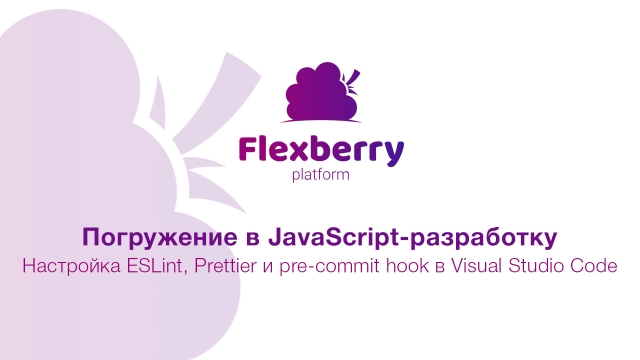
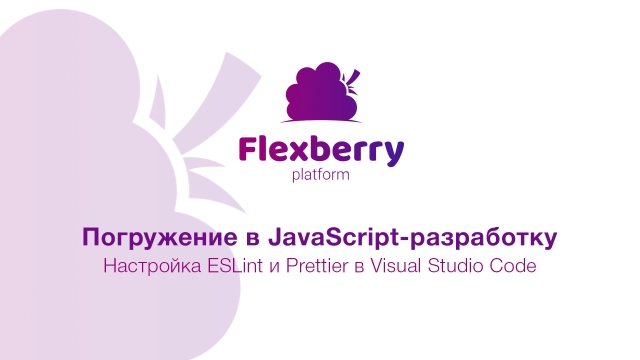
Update developers school pages

Changed region(s): [[0.0312, 0.7028, 0.9688, 0.7639]]

diff --git a/pages/trainings/developers-school/module3/tds_module3-learn.ru.md b/pages/trainings/developers-school/module3/tds_module3-learn.ru.md
@@ -12,13 +12,49 @@ lang: ru
 <div class="panel-group">
     <div class="panel panel-default">
         <div class="panel-heading">
-            <a class="pull-right spoiler-push" data-toggle="collapse" href="#collapse1">&#9660;</a>
+            <a class="pull-right spoiler-push" data-toggle="collapse" href="#collapse0">&#9660;</a>
+            <h4 class="panel-title">
+                <a data-toggle="collapse" href="#collapse0">
+                Ключевые концепции JavaScript и настройка окружения</a>
+            </h4>
+        </div>
+        <div id="collapse0" class="panel-collapse collapse in">
+            <div class="panel-body">
+                <div class="row items">
+                    <div class="col-sm-6 col-md-4 portfolio-item">
+                        <a href="{{ 'https://www.youtube.com/watch?v=IJQVLg4heLA' | relative_url }}" class="portfolio-link" target="_blank">
+                            <div class="img-wrapper">
+                                <img src="{{ "/images/pages/trainings/developers-school/module3/javascript-key-concepts.jpg" | relative_url}}" class="products-img">
+                            </div>
+                            <h4><span class="item-head">1. Ключевые концепции языка JavaScript</span></h4>
+                            <p>Урок, в котором разбираются три ключевые концепции языка JavaScript: асинхронность, событийная модель, однопоточность (Илья Климов, JavaScript.Ninja/GitLab).</p>
+                        </a>
+                    </div>
+                    <div class="col-sm-6 col-md-4 portfolio-item">
+                        <a href="{{ 'https://www.youtube.com/watch?v=RW5JjiFg2uw' | relative_url }}" class="portfolio-link" target="_blank">
+                            <div class="img-wrapper">
+                                <img src="{{ "/images/pages/trainings/developers-school/module3/development-environment-setup.jpg" | relative_url}}" class="products-img">
+                            </div>
+                            <h4><span class="item-head">2. Настройка окружения для нового проекта на JavaScript</span></h4>
+                            <p>Видео, в котором рассматривается настройка окружения для реальных проектов на языке JavaScript (Node.js). В качестве среды разработки для рассмотренных настроек окружения используется Visual Studio Code. Рассмотренные настройки являются актуальными для проектов различных типов на языке JavaScript (Илья Климов, JavaScript.Ninja/GitLab).</p>
+                        </a>
+                    </div>
+                </div>
+            </div>
+        </div>
+    </div>
+</div>
+
+<div class="panel-group">
+    <div class="panel panel-default">
+        <div class="panel-heading">
+            <a class="pull-right spoiler-push collapsed" data-toggle="collapse" href="#collapse1" aria-expanded="false">&#9660;</a>
             <h4 class="panel-title">
                 <a data-toggle="collapse" href="#collapse1">
                 Одностраничные приложения (SPA) и архитектурный паттерн MVC</a>
             </h4>
         </div>
-        <div id="collapse1" class="panel-collapse collapse in">
+        <div id="collapse1" class="panel-collapse collapse" aria-expanded="false" style="height: 0px;">
             <div class="panel-body">
                 <div class="row items">
                     <div class="col-sm-6 col-md-4 portfolio-item">
@@ -160,6 +196,15 @@ lang: ru
                             <p>Урок, в котором рассматривается понятие и механизм работы замыканий в JavaScript (Monster Lessons).</p>
                         </a>
                     </div>
+                    <div class="col-sm-6 col-md-4 portfolio-item">
+                        <a href="{{ 'https://www.youtube.com/watch?v=QsWnRj_EXMg' | relative_url }}" class="portfolio-link" target="_blank">
+                            <div class="img-wrapper">
+                                <img src="{{ "/images/pages/trainings/developers-school/module3/closures-and-scopes.jpg" | relative_url}}" class="products-img">
+                            </div>
+                            <h4><span class="item-head">5. Замыкания и области видимости</span></h4>
+                            <p>Видео, в котором рассматривается взаимосвязь замыканий, областей видимости, а также передачи данных по значению и по ссылке в JavaScript (Илья Климов, JavaScript.Ninja/GitLab).</p>
+                        </a>
+                    </div>
                 </div>
             </div>
         </div>
@@ -296,7 +341,7 @@ lang: ru
                                 <img src="{{ "/images/pages/trainings/developers-school/module3/javascript-projects-structure.jpg" | relative_url}}" class="products-img">
                             </div>
                             <h4><span class="item-head">8. Структура файлов в JavaScript-проекте</span></h4>
-                            <p>Урок, в котором рассматривается два основных подхода к организации файлов в JavaScript-проектах: по "категориям файлов" и "фрактальный" (Илья Климов, JavaScript.Ninja/WookieeLabs).</p>
+                            <p>Урок, в котором рассматривается два основных подхода к организации файлов в JavaScript-проектах: по "категориям файлов" и "фрактальный" (Илья Климов, JavaScript.Ninja/GitLab).</p>
                         </a>
                     </div>
                 </div>
@@ -465,6 +510,15 @@ lang: ru
                             </div>
                             <h4><span class="item-head">5. Конструкция async/await</span></h4>
                             <p>Скринкаст, в котором рассматривается конструкция async/await, появившаяся в ES7 для упрощения работы с JavaScript Promises (Владилен Минин, JavaScript by Vladilen).</p>
+                        </a>
+                    </div>
+                    <div class="col-sm-6 col-md-4 portfolio-item">
+                        <a href="{{ 'https://www.youtube.com/watch?v=7wtbNNiOh30' | relative_url }}" class="portfolio-link" target="_blank">
+                            <div class="img-wrapper">
+                                <img src="{{ "/images/pages/trainings/developers-school/module3/generators-and-iterators.jpg" | relative_url}}" class="products-img">
+                            </div>
+                            <h4><span class="item-head">6. Генераторы и итераторы</span></h4>
+                            <p>Занятие, посвященное изучению механизмов работы генераторов и итераторов (Владилен Минин, JavaScript by Vladilen).</p>
                         </a>
                     </div>
                 </div>
@@ -712,12 +766,12 @@ lang: ru
                         </a>
                     </div>
                     <div class="col-sm-6 col-md-4 portfolio-item">
-                        <a href="{{ 'https://www.youtube.com/watch?v=IpmiFPoDYVY' | relative_url }}" class="portfolio-link" target="_blank">
+                        <a href="{{ 'https://www.youtube.com/watch?v=3c1ZkiafbzY' | relative_url }}" class="portfolio-link" target="_blank">
                             <div class="img-wrapper">
                                 <img src="{{ "/images/pages/trainings/developers-school/module3/vscode-linting.jpg" | relative_url}}" class="products-img">
                             </div>
-                            <h4><span class="item-head">5. Настройка ESLint, Prettier и pre-commit hook в Visual Studio Code</span></h4>
-                            <p>Вебинар, в котором рассматривается настройка библиотек для линтинга JavaScript-кода при работе в Visual Studio Code (Максим Пацианский, maxpfrontend).</p>
+                            <h4><span class="item-head">5. Настройка ESLint и Prettier в Visual Studio Code</span></h4>
+                            <p>Видео, в котором рассматривается настройка окружения для JavaScript-разработки, а также библиотек для линтинга JavaScript-кода при работе в Visual Studio Code (Илья Климов, JavaScript.Ninja/GitLab).</p>
                         </a>
                     </div>
                     <div class="col-sm-6 col-md-4 portfolio-item">
@@ -726,7 +780,7 @@ lang: ru
                                 <img src="{{ "/images/pages/trainings/developers-school/module3/bad-code-projects-linting.jpg" | relative_url}}" class="products-img">
                             </div>
                             <h4><span class="item-head">6. Линтинг на проектах с "плохим" кодом</span></h4>
-                            <p> Видео, в котором даются практические рекомендации по внедрению ESLint и Prettier на проектах с унаследованнм "плохим" кодом (код, который не тестируется, не проверяется инструментами и т.д.) (Илья Климов, JavaScript.Ninja/WookieeLabs).</p>
+                            <p> Видео, в котором даются практические рекомендации по внедрению ESLint и Prettier на проектах с унаследованнм "плохим" кодом (код, который не тестируется, не проверяется инструментами и т.д.) (Илья Климов, JavaScript.Ninja/GitLab).</p>
                         </a>
                     </div>
                 </div>
@@ -762,7 +816,7 @@ lang: ru
                                 <img src="{{ "/images/pages/trainings/developers-school/module3/testing-principles.jpg" | relative_url}}" class="products-img">
                             </div>
                             <h4><span class="item-head">2. Принципы автоматизированного тестирования веб-приложений</span></h4>
-                            <p>Видео, в котором рассматриваются такие вопросы как цикл Test Driven Design (TDD) и пирамида обеспечения качества приложений (Илья Климов, JavaScript.Ninja/WookieeLabs).</p>
+                            <p>Видео, в котором рассматриваются такие вопросы как цикл Test Driven Design (TDD) и пирамида обеспечения качества приложений (Илья Климов, JavaScript.Ninja/GitLab).</p>
                         </a>
                     </div>
                     <div class="col-sm-6 col-md-4 portfolio-item">
@@ -782,7 +836,7 @@ lang: ru
                                 <img src="{{ "/images/pages/trainings/developers-school/module3/di-ioc.jpg" | relative_url}}" class="products-img">
                             </div>
                             <h4><span class="item-head">4. Внедрение зависимостей и инверсия управления</span></h4>
-                            <p>Серия скринкастов, посвященная изучению понятия и реализации принципов DI & IoC в JavaScript-приложениях (Илья Климов, JavaScript.Ninja/WookieeLabs).</p>
+                            <p>Серия скринкастов, посвященная изучению понятия и реализации принципов DI & IoC в JavaScript-приложениях (Илья Климов, JavaScript.Ninja/GitLab).</p>
                         </a>
                     </div>
                     <div class="col-sm-6 col-md-4 portfolio-item">
@@ -800,7 +854,7 @@ lang: ru
                                 <img src="{{ "/images/pages/trainings/developers-school/module3/end-to-end-testing.jpg" | relative_url}}" class="products-img">
                             </div>
                             <h4><span class="item-head">6. Основы End-to-End тестирования</span></h4>
-                            <p>Видео, в котором рассматриваются преимущества использования End-to-End тестирования с точки зрения бизнеса, а также основные архитектурные принципы End-to-End тестирования (Илья Климов, JavaScript.Ninja/WookieeLabs).</p>
+                            <p>Видео, в котором рассматриваются преимущества использования End-to-End тестирования с точки зрения бизнеса, а также основные архитектурные принципы End-to-End тестирования (Илья Климов, JavaScript.Ninja/GitLab).</p>
                         </a>
                     </div>
                 </div>
@@ -811,7 +865,7 @@ lang: ru
                                 <img src="{{ "/images/pages/trainings/developers-school/module3/end-to-end-appreaches.jpg" | relative_url}}" class="products-img">
                             </div>
                             <h4><span class="item-head">7. Подходы к автоматизации End-to-End тестов</span></h4>
-                            <p>Видео, в котором рассматриваются две существующие парадигмы для автоматизации End-to-End тестов: инъекция JavaScript на страницу и применение отдельного командного сервера. Рассматриваются также примеры инструментов, реализующие эти подходы: Selenium, Cypress, TestCafe (Илья Климов, JavaScript.Ninja/WookieeLabs).</p>
+                            <p>Видео, в котором рассматриваются две существующие парадигмы для автоматизации End-to-End тестов: инъекция JavaScript на страницу и применение отдельного командного сервера. Рассматриваются также примеры инструментов, реализующие эти подходы: Selenium, Cypress, TestCafe (Илья Климов, JavaScript.Ninja/GitLab).</p>
                         </a>
                     </div>
                     <div class="col-sm-6 col-md-4 portfolio-item">
@@ -820,7 +874,7 @@ lang: ru
                                 <img src="{{ "/images/pages/trainings/developers-school/module3/end-to-end-mechanisms.jpg" | relative_url}}" class="products-img">
                             </div>
                             <h4><span class="item-head">8. Инфраструктура и механизмы для организации End-to-End тестирования</span></h4>
-                            <p>Видео, в котором рассматриваются необходимые организационные шаги для создания End-to-End тестов: создание фикстур, реализация механизма загрузки фикстур на сервер, сборка проекта под соответствующее тестовое окружение (Илья Климов, JavaScript.Ninja/WookieeLabs).</p>
+                            <p>Видео, в котором рассматриваются необходимые организационные шаги для создания End-to-End тестов: создание фикстур, реализация механизма загрузки фикстур на сервер, сборка проекта под соответствующее тестовое окружение (Илья Климов, JavaScript.Ninja/GitLab).</p>
                         </a>
                     </div>
                     <div class="col-sm-6 col-md-4 portfolio-item">

diff --git a/pages/trainings/developers-school/module3/tds_module3-about.ru.md b/pages/trainings/developers-school/module3/tds_module3-about.ru.md
@@ -9,38 +9,40 @@ lang: ru
 
 ## Содержание модуля
 
-1. Одностраничные приложения (SPA) и архитектурный паттерн MVC
-2. Объектно-ориентированное программирование (ООП) в JavaScript, прототипное наследование
-3. Контекст вызова, области видимости, замыкания
-4. Взаимодействие с сервером
-5. Модули и структура проектов, пакетные менеджеры
-6. Возможности ES6+, транспиляция JavaScript-кода
-7. Асинхронное программирование
-8. Архитектурные паттерны
-9. Автоматизация сборки приложений
-10. Проверка стиля кода и её автоматизация
-11. Тестирование приложений
-12. Отладка и профилирование приложений
-13. Cоздание автодокументации
+1. Ключевые концепции JavaScript и настройка окружения для проектов
+2. Одностраничные приложения (SPA) и архитектурный паттерн MVC
+3. Объектно-ориентированное программирование (ООП) в JavaScript, прототипное наследование
+4. Контекст вызова, области видимости, замыкания
+5. Взаимодействие с сервером
+6. Модули и структура проектов, пакетные менеджеры
+7. Возможности ES6+, транспиляция JavaScript-кода
+8. Асинхронное программирование
+9. Архитектурные паттерны
+10. Автоматизация сборки приложений
+11. Проверка стиля кода и её автоматизация
+12. Тестирование приложений
+13. Отладка и профилирование приложений
+14. Cоздание автодокументации
 
 ## Ожидаемые результаты обучения
 
 По результатам изучения материалов модуля обучающийся должен:
 1. Понимать особенности реализации ООП в JavaScript и в частности прототипного наследования
 2. Понимать области видимости, контекст выполнения кода
-3. Уметь управлять контекстом вызова функций с использованием методов bind, call, apply
-4. Уметь использовать замыкания
-5. Уметь использовать средства JavaScript и jQuery для организации взаимодействия с сервером
-6. Уметь использовать менеджеры пакетов npm и yarn для управления сторонними зависимостями
-7. Уметь использовать языковые возможности свежих спецификаций ECMAScript
-8. Уметь настраивать транспиляцию JavaScript-кода с использованием Babel.js
-9. Уметь использовать промисы и конструкции async/await
-10. Знать и уметь применять часто используемые паттерны проектирования в JavaScript-приложениях
-11. Уметь использовать библиотеки Webpack и Broccoli.js для сборки JavaScript-приложений
-12. Уметь настраивать линтинг JavaSciript-кода с помощью ESLint
-13. Уметь использовать инструменты отладки JavaScript-приложений
-14. Уметь писать модульные тесты с использованием тестового фреймворка QUnit
-15. Уметь генерировать автодокументацию с использованием JSDoc
+3. Уметь настраивать оркужение разработки для новых проектов
+4. Уметь управлять контекстом вызова функций с использованием методов bind, call, apply
+5. Уметь использовать замыкания
+6. Уметь использовать средства JavaScript и jQuery для организации взаимодействия с сервером
+7. Уметь использовать менеджеры пакетов npm и yarn для управления сторонними зависимостями
+8. Уметь использовать языковые возможности свежих спецификаций ECMAScript
+9. Уметь настраивать транспиляцию JavaScript-кода с использованием Babel.js
+10. Уметь использовать промисы и конструкции async/await
+11. Знать и уметь применять часто используемые паттерны проектирования в JavaScript-приложениях
+12. Уметь использовать библиотеки Webpack и Broccoli.js для сборки JavaScript-приложений
+13. Уметь настраивать линтинг JavaSciript-кода с помощью ESLint
+14. Уметь использовать инструменты отладки JavaScript-приложений
+15. Уметь писать модульные тесты с использованием тестового фреймворка QUnit
+16. Уметь генерировать автодокументацию с использованием JSDoc
 
 ## Вы можете
 
